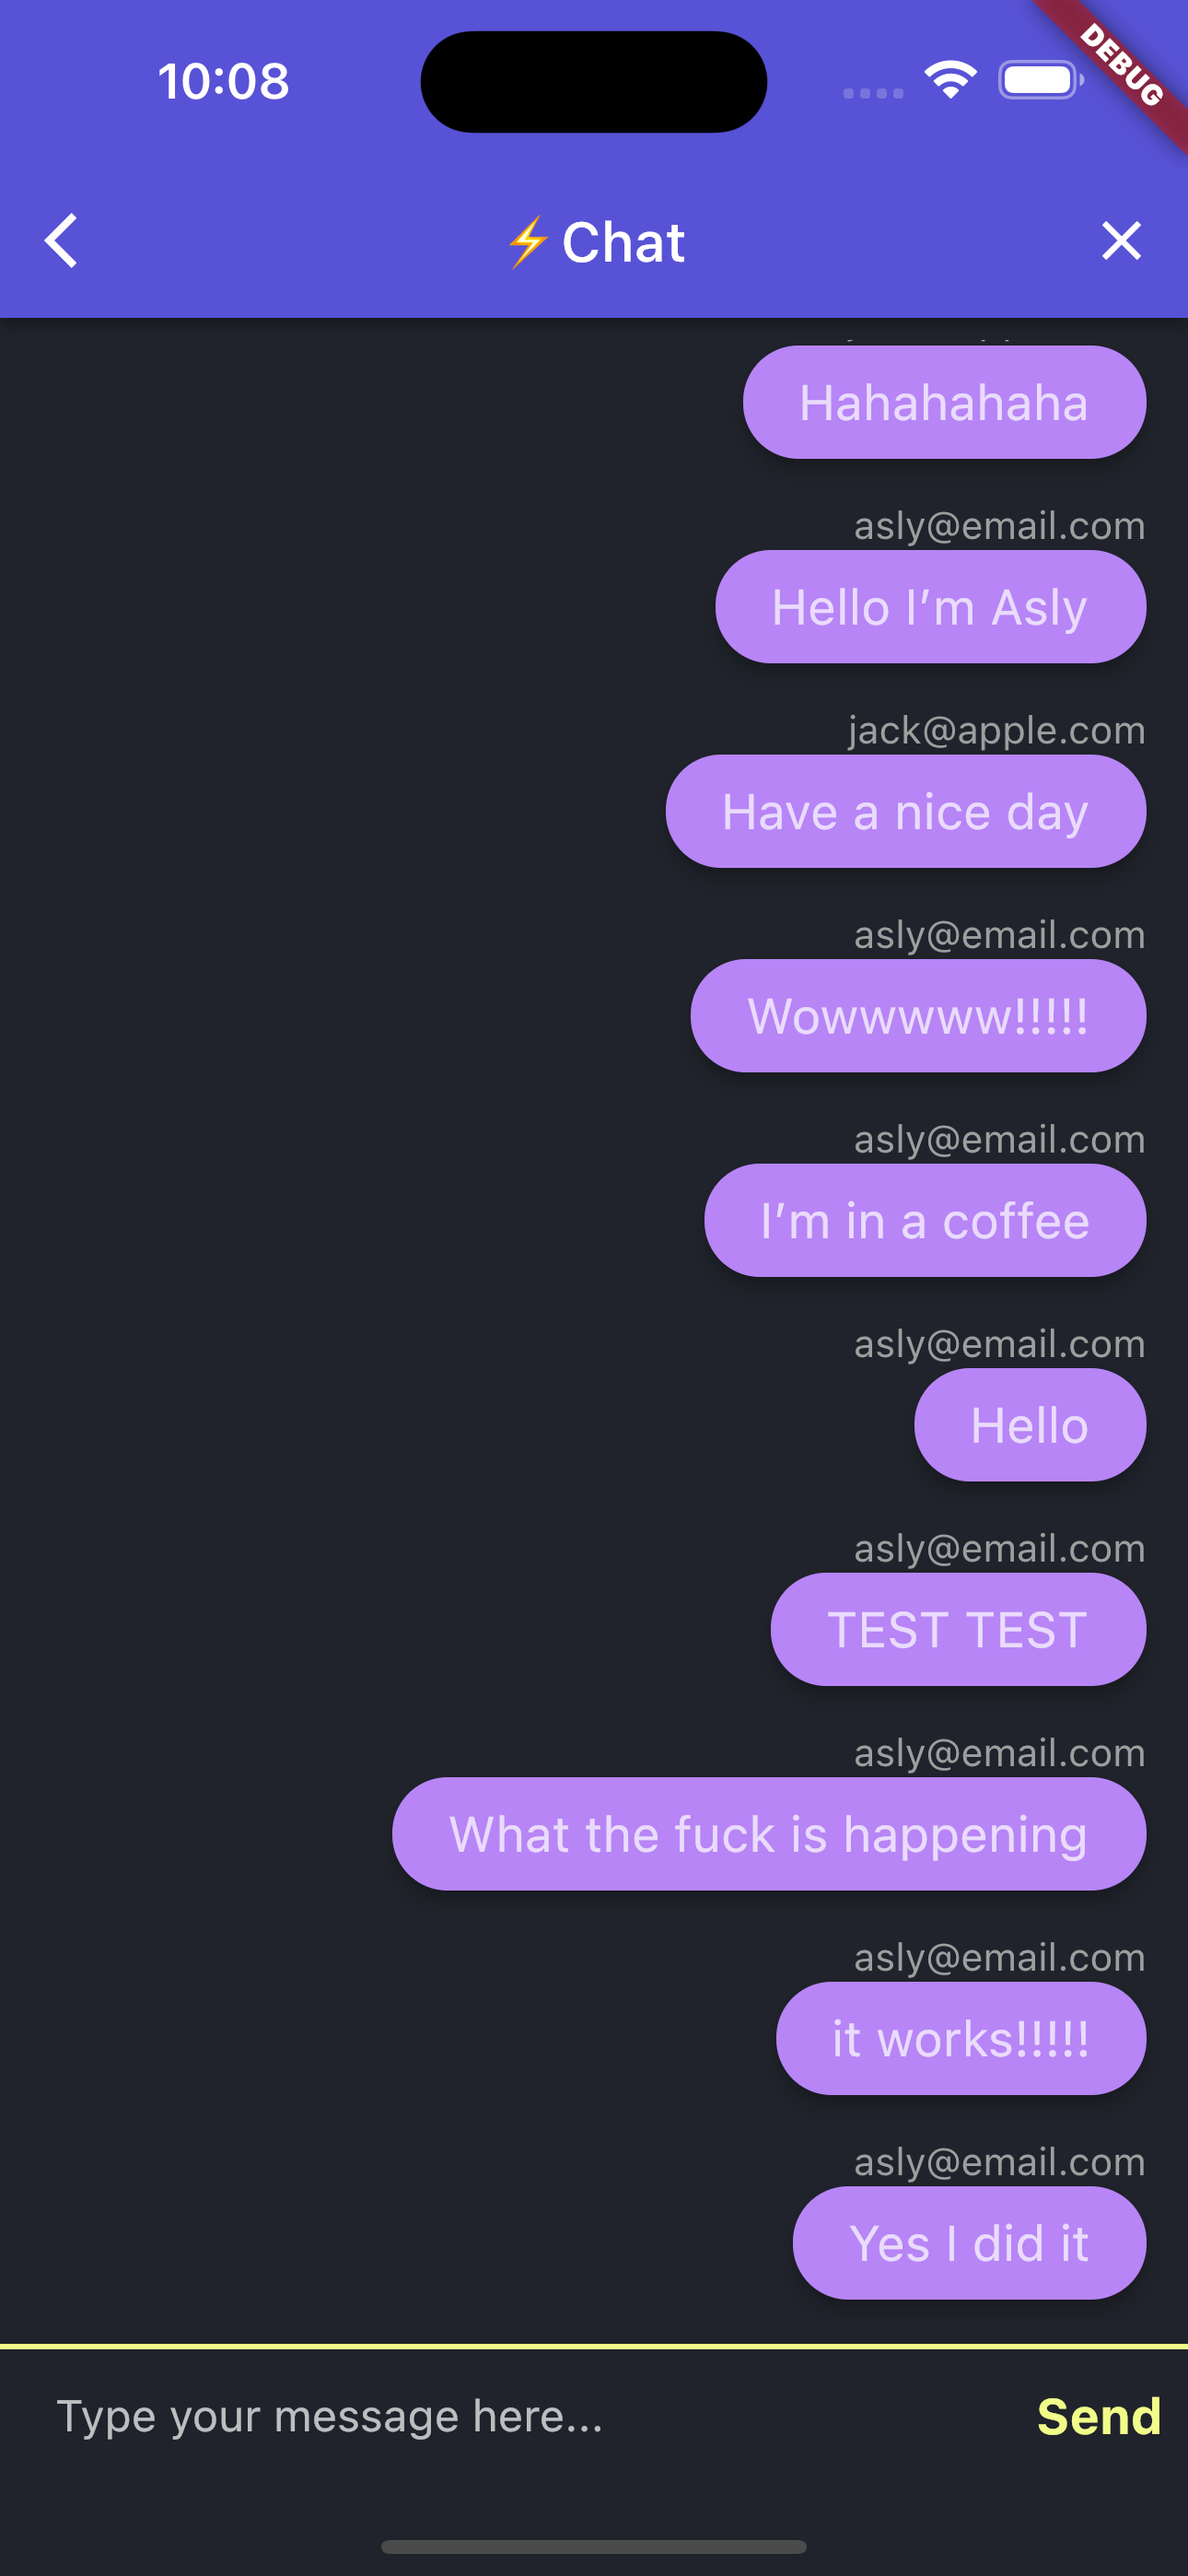
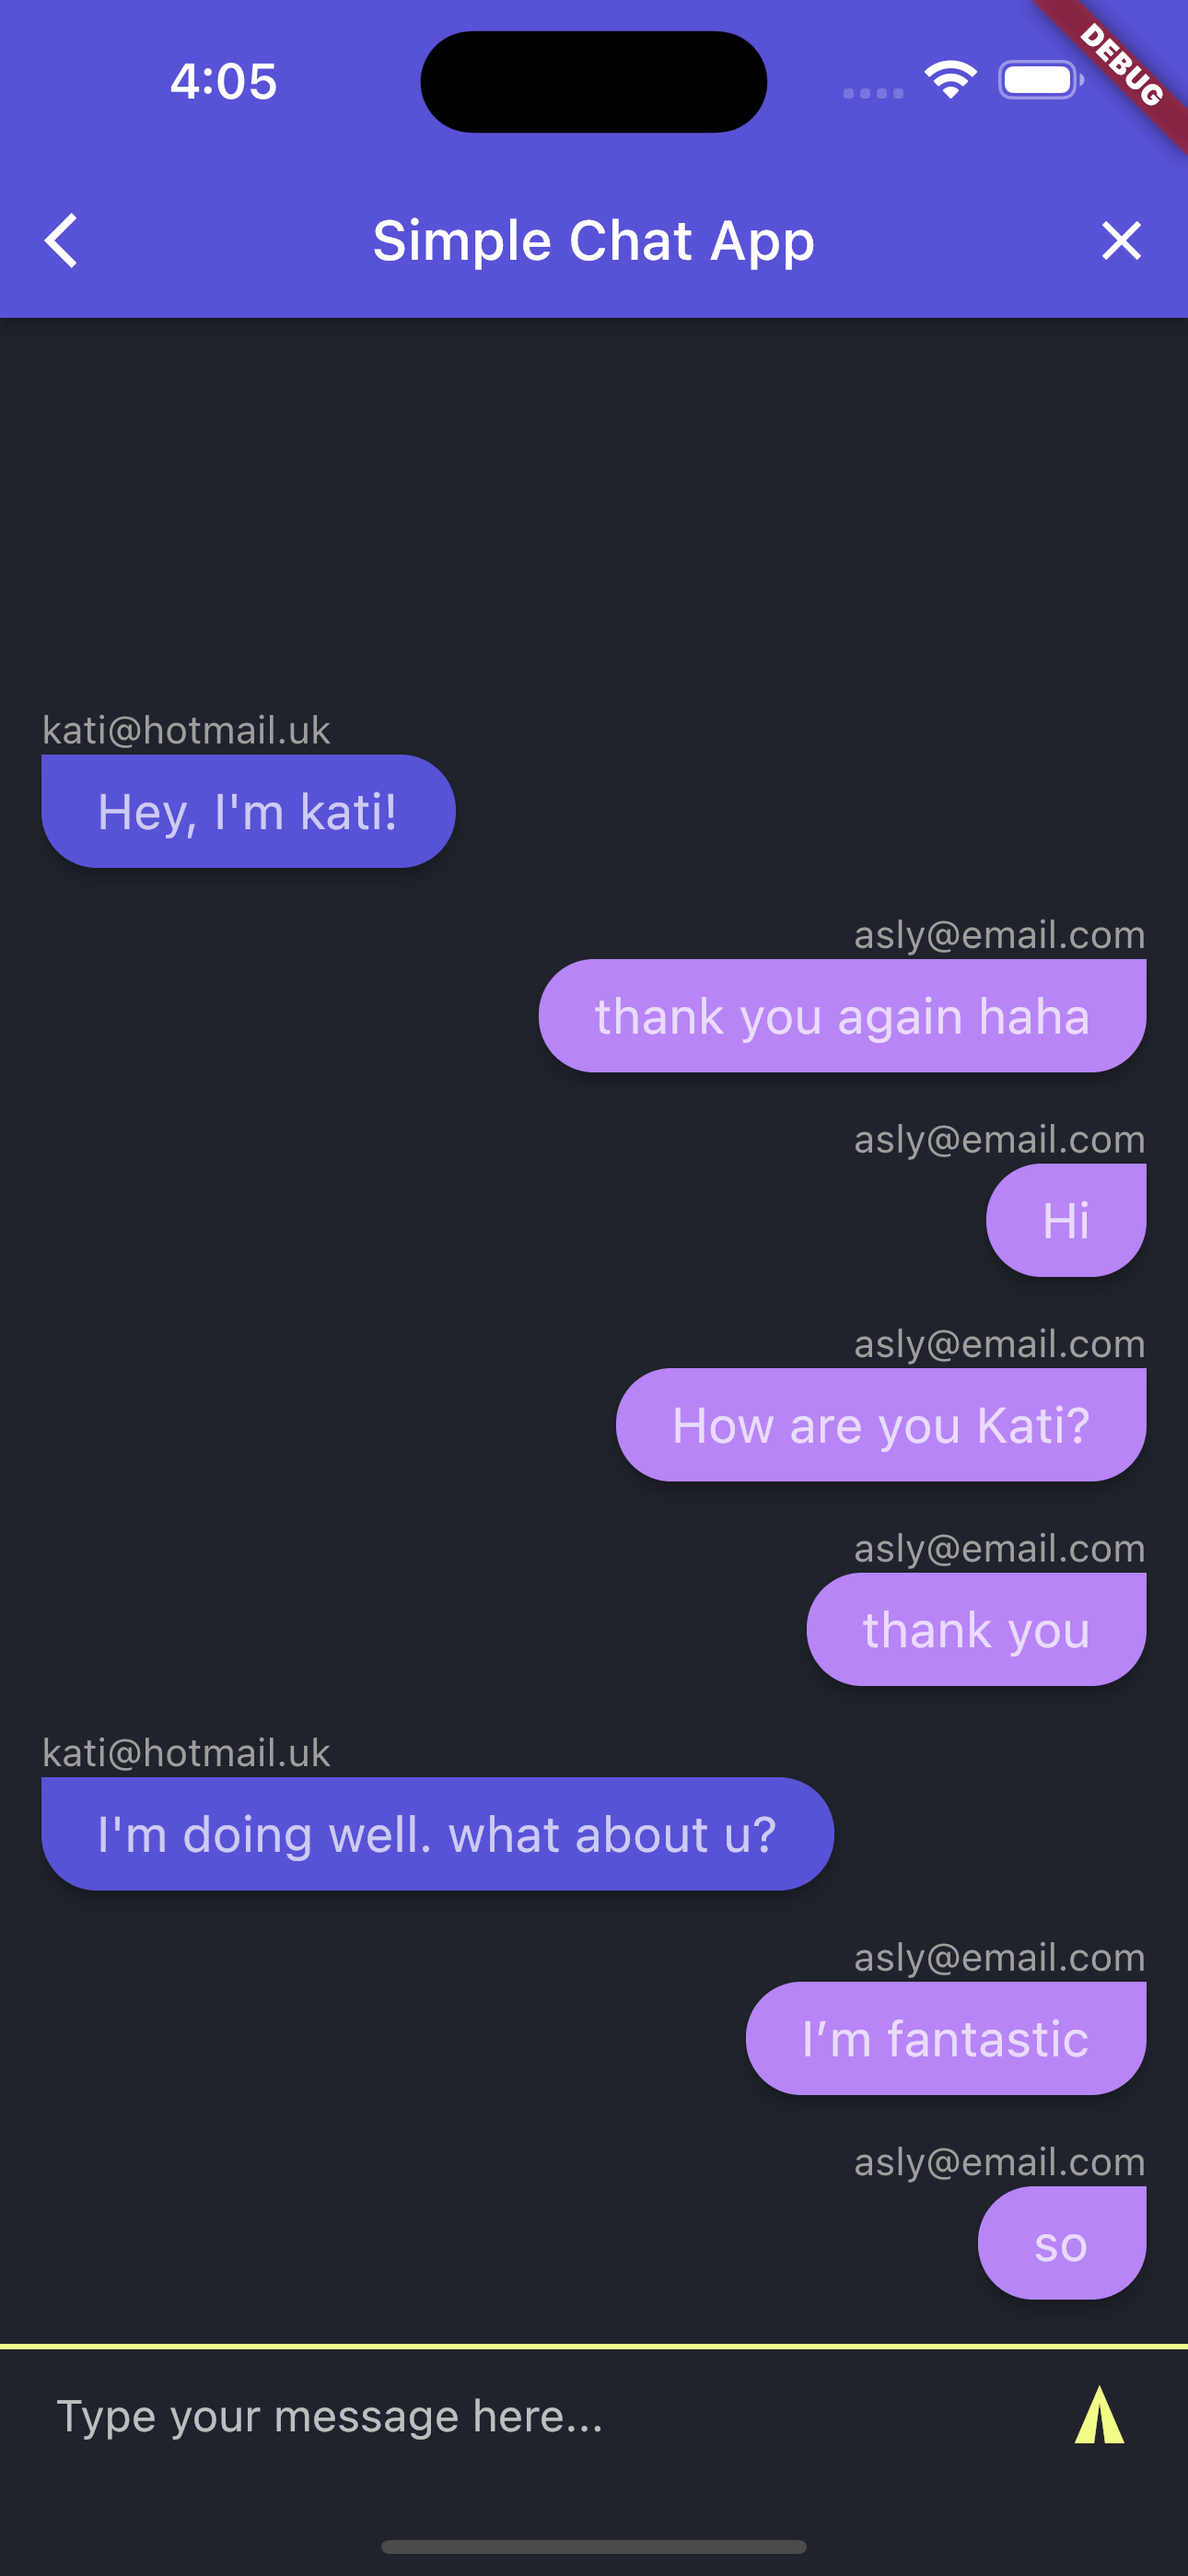
simple improvements

diff --git a/lib/screens/chat_screen.dart b/lib/screens/chat_screen.dart
@@ -45,7 +45,7 @@ class _ChatScreenState extends State<ChatScreen> {
                 Navigator.pop(context);
               }),
         ],
-        title: Text('⚡Chat'),
+        title: Text('Simple Chat App'),
         backgroundColor: primary2,
       ),
       body: SafeArea(
@@ -83,9 +83,12 @@ class _ChatScreenState extends State<ChatScreen> {
                         message = '';
                       });
                     },
-                    child: Text(
-                      'Send',
-                      style: kSendButtonTextStyle,
+                    child: RotatedBox(
+                      quarterTurns: 3,
+                      child: Icon(
+                        Icons.send,
+                        color: accent,
+                      ),
                     ),
                   ),
                 ],
